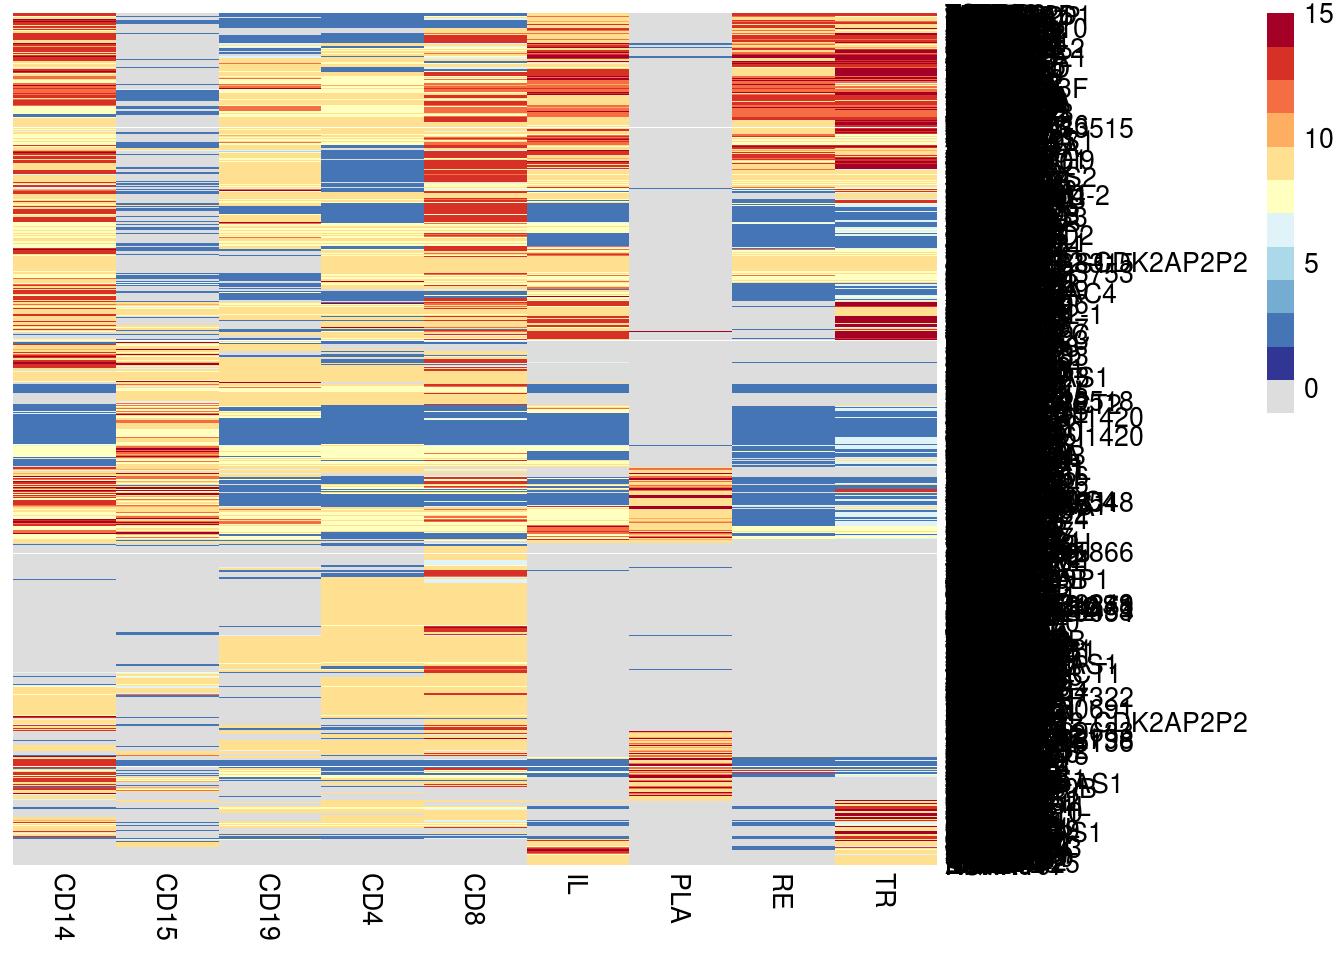
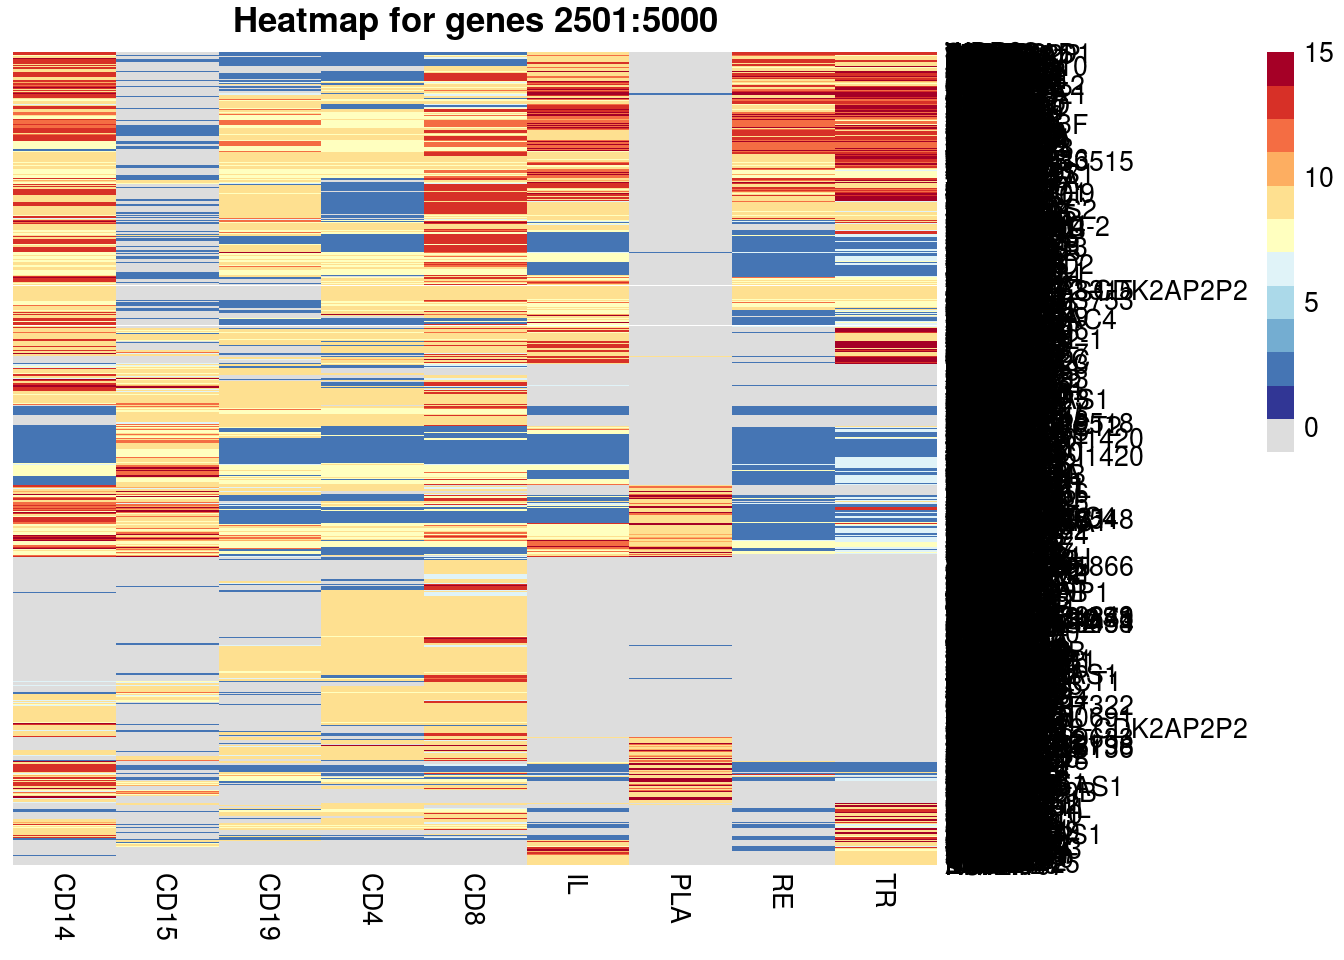
Good stuff

diff --git a/public/2019/02/20/log-weeks-1-3/index.html b/public/2019/02/20/log-weeks-1-3/index.html
@@ -111,6 +111,7 @@ head(compare_df_mat)</code></pre>
 <h2>Visualisation</h2>
 <p>Using this data we generated a heatmap.</p>
 <p><img src="/post/2019-02-20-log-weeks-1-3_files/figure-html/mdi_1_heatmap-1.png" width="672" /></p>
+<p>Notice that we have clusters of datasets; CD4, CD8 and CD14, RE and IL and then CD15, CD19 and TR. Platelets are outside of any clusters.</p>
 <p>There are 14 clusters present here; to enable comparison we went for a wider colour palette. This is the reason for the garishness of this heatplot. There is appears to have lower similarity than one might expect, particularly considering the selection of data - we only include the probes that are sufficiently expressed in each cell type to register for measurement. Possibly this is an artifact of not considering label-flipping.</p>
 <div id="investigate-subsections" class="section level3">
 <h3>Investigate subsections</h3>
@@ -122,11 +123,11 @@ head(compare_df_mat)</code></pre>
 <h3>Investigate different combinations</h3>
 <p>Please note that these following heatmaps have <strong>unique</strong> clusterings and have not inherited the clustering of the original heatmap unlike those preceding this section.</p>
 <p><img src="/post/2019-02-20-log-weeks-1-3_files/figure-html/no_platelets-1.png" width="672" /></p>
-<p>We consider only four most similar datasets, CD14, CD4, CD8, RE and TR.</p>
+<p>We consider only the most similar datasets based on the clustering of datasets: CD4, CD8, CD14, RE and IL.</p>
 <p><img src="/post/2019-02-20-log-weeks-1-3_files/figure-html/sim_heatmaps-1.png" width="672" /></p>
 <p>Out of curiousity we check the clustering and heatmap for the excluded datasets.</p>
 <p><img src="/post/2019-02-20-log-weeks-1-3_files/figure-html/dis_heatmaps-1.png" width="672" /></p>
-<p>This is sligthly more coherent than our first heatmap where we considered all datasets at once - this suggests that trying to process the output of all 9 datasets at once is not optimal and is in itself a non-trivial task (particulalrly if label-flipping cannot be ignored).</p>
+<p>These are more coherent than our first heatmap where we considered all datasets at once - this suggests that trying to process the output of all 9 datasets at once is not optimal and is in itself a non-trivial task (particulalrly if label-flipping cannot be ignored).</p>
 </div>
 </div>
 <div id="including-all-probes" class="section level2">
@@ -145,6 +146,7 @@ row.names(compare_df_all_mat) &lt;- compare_df_all$V1</code></pre>
 <p>The grey areas are absent genes for the dataset in question. This is too dense (being some 18,517 observations long), so we consider subsets.</p>
 <p><img src="/post/2019-02-20-log-weeks-1-3_files/figure-html/mox_pheatmap-1.png" width="672" /></p>
 <p>Unfortunately too many of the MOX genes are absent from too many datasets to read to significantly into these results.</p>
+<p>Investigate higher granularity.</p>
 <p><img src="/post/2019-02-20-log-weeks-1-3_files/figure-html/mdi_2_granularity-1.png" width="672" /><img src="/post/2019-02-20-log-weeks-1-3_files/figure-html/mdi_2_granularity-2.png" width="672" /><img src="/post/2019-02-20-log-weeks-1-3_files/figure-html/mdi_2_granularity-3.png" width="672" /><img src="/post/2019-02-20-log-weeks-1-3_files/figure-html/mdi_2_granularity-4.png" width="672" /><img src="/post/2019-02-20-log-weeks-1-3_files/figure-html/mdi_2_granularity-5.png" width="672" /></p>
 <p>Recalling the clustering of datasets from the initial heatmap, we investigate these groupings. We inspect different combinations trying the CD combinations and the intestinal combinations.</p>
 <p><img src="/post/2019-02-20-log-weeks-1-3_files/figure-html/pheatmap_combinations_mdi_2-1.png" width="672" /><img src="/post/2019-02-20-log-weeks-1-3_files/figure-html/pheatmap_combinations_mdi_2-2.png" width="672" /></p>

diff --git a/content/post/2019-02-20-log-weeks-1-3.html b/content/post/2019-02-20-log-weeks-1-3.html
@@ -48,6 +48,7 @@ head(compare_df_mat)</code></pre>
 <h2>Visualisation</h2>
 <p>Using this data we generated a heatmap.</p>
 <p><img src="/post/2019-02-20-log-weeks-1-3_files/figure-html/mdi_1_heatmap-1.png" width="672" /></p>
+<p>Notice that we have clusters of datasets; CD4, CD8 and CD14, RE and IL and then CD15, CD19 and TR. Platelets are outside of any clusters.</p>
 <p>There are 14 clusters present here; to enable comparison we went for a wider colour palette. This is the reason for the garishness of this heatplot. There is appears to have lower similarity than one might expect, particularly considering the selection of data - we only include the probes that are sufficiently expressed in each cell type to register for measurement. Possibly this is an artifact of not considering label-flipping.</p>
 <div id="investigate-subsections" class="section level3">
 <h3>Investigate subsections</h3>
@@ -59,11 +60,11 @@ head(compare_df_mat)</code></pre>
 <h3>Investigate different combinations</h3>
 <p>Please note that these following heatmaps have <strong>unique</strong> clusterings and have not inherited the clustering of the original heatmap unlike those preceding this section.</p>
 <p><img src="/post/2019-02-20-log-weeks-1-3_files/figure-html/no_platelets-1.png" width="672" /></p>
-<p>We consider only four most similar datasets, CD14, CD4, CD8, RE and TR.</p>
+<p>We consider only the most similar datasets based on the clustering of datasets: CD4, CD8, CD14, RE and IL.</p>
 <p><img src="/post/2019-02-20-log-weeks-1-3_files/figure-html/sim_heatmaps-1.png" width="672" /></p>
 <p>Out of curiousity we check the clustering and heatmap for the excluded datasets.</p>
 <p><img src="/post/2019-02-20-log-weeks-1-3_files/figure-html/dis_heatmaps-1.png" width="672" /></p>
-<p>This is sligthly more coherent than our first heatmap where we considered all datasets at once - this suggests that trying to process the output of all 9 datasets at once is not optimal and is in itself a non-trivial task (particulalrly if label-flipping cannot be ignored).</p>
+<p>These are more coherent than our first heatmap where we considered all datasets at once - this suggests that trying to process the output of all 9 datasets at once is not optimal and is in itself a non-trivial task (particulalrly if label-flipping cannot be ignored).</p>
 </div>
 </div>
 <div id="including-all-probes" class="section level2">
@@ -82,6 +83,7 @@ row.names(compare_df_all_mat) &lt;- compare_df_all$V1</code></pre>
 <p>The grey areas are absent genes for the dataset in question. This is too dense (being some 18,517 observations long), so we consider subsets.</p>
 <p><img src="/post/2019-02-20-log-weeks-1-3_files/figure-html/mox_pheatmap-1.png" width="672" /></p>
 <p>Unfortunately too many of the MOX genes are absent from too many datasets to read to significantly into these results.</p>
+<p>Investigate higher granularity.</p>
 <p><img src="/post/2019-02-20-log-weeks-1-3_files/figure-html/mdi_2_granularity-1.png" width="672" /><img src="/post/2019-02-20-log-weeks-1-3_files/figure-html/mdi_2_granularity-2.png" width="672" /><img src="/post/2019-02-20-log-weeks-1-3_files/figure-html/mdi_2_granularity-3.png" width="672" /><img src="/post/2019-02-20-log-weeks-1-3_files/figure-html/mdi_2_granularity-4.png" width="672" /><img src="/post/2019-02-20-log-weeks-1-3_files/figure-html/mdi_2_granularity-5.png" width="672" /></p>
 <p>Recalling the clustering of datasets from the initial heatmap, we investigate these groupings. We inspect different combinations trying the CD combinations and the intestinal combinations.</p>
 <p><img src="/post/2019-02-20-log-weeks-1-3_files/figure-html/pheatmap_combinations_mdi_2-1.png" width="672" /><img src="/post/2019-02-20-log-weeks-1-3_files/figure-html/pheatmap_combinations_mdi_2-2.png" width="672" /></p>
